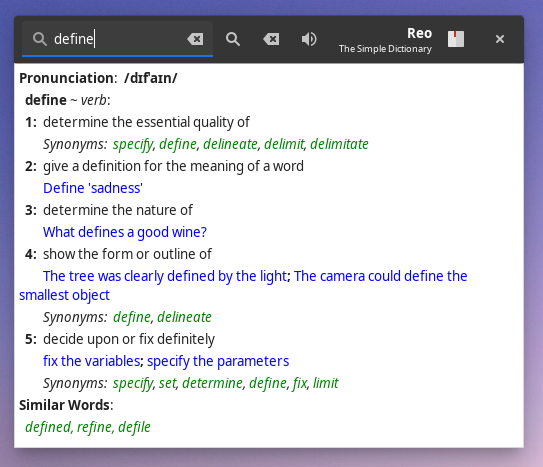
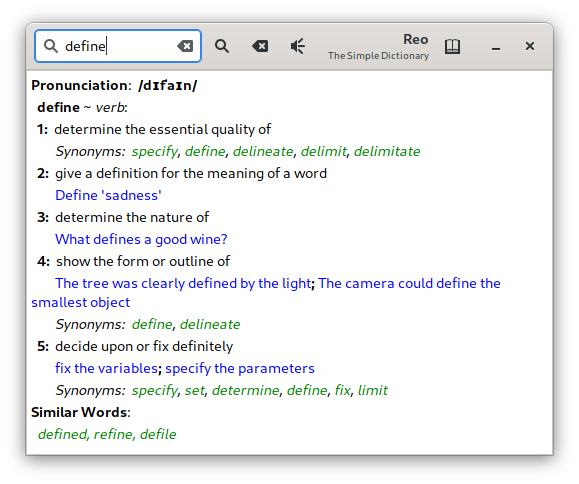
Some Improvements
- Light mode should now work even on normal dark themes. If your theme doesn't follow the
   standard naming scheme, I don't know how well it will work.
 - New screenshots with Adwaita. Adwaita looks decent now, that's good.

diff --git a/reo/gtk/__init__.py b/reo/gtk/__init__.py
@@ -73,6 +73,10 @@ def darker():
     global dark
     settings = Gtk.Settings.get_default()
     settings.set_property("gtk-application-prefer-dark-theme", True)
+    current_theme = settings.get_property("gtk-theme-name")
+    if not current_theme.endswith('-dark'):
+        new_theme = current_theme + "-dark"
+        settings.set_property("gtk-theme-name", new_theme)
     dark = True
 
 
@@ -81,6 +85,10 @@ def lighter():
     global dark
     settings = Gtk.Settings.get_default()
     settings.set_property("gtk-application-prefer-dark-theme", False)
+    current_theme = settings.get_property("gtk-theme-name")
+    if current_theme.endswith('-dark'):
+        new_theme = current_theme[:-5]
+        settings.set_property("gtk-theme-name", new_theme)
     dark = False
 
 
@@ -206,9 +214,9 @@ if not parsed.verinfo and not parsed.check:
     GtkSettings = Gtk.Settings.get_default()
     if (GtkSettings.get_property("gtk-application-prefer-dark-theme") or
             GtkSettings.get_property("gtk-theme-name").endswith('-dark')):
-        dark = True
+        darker()
     else:
-        dark = False
+        lighter()
     PATH = os.path.dirname(os.path.realpath(__file__))
     GLADEFILE = PATH + "/ui/reo.ui"
     # GLADEFILE = "/usr/share/reo/reo.ui"

diff --git a/reo/reo_base.py b/reo/reo_base.py
@@ -245,7 +245,7 @@ def verinfo():
 
 
 def htmltopango(data):
-    """Convert HTML data to Pango markup data."""
+    """Convert HTML data to Pango markup data. Not a real converter."""
     data = data.replace('<font color="', '<span foreground="')
     data = data.replace('</font>', '</span>')
     data = data.replace('<br>', '\n')
